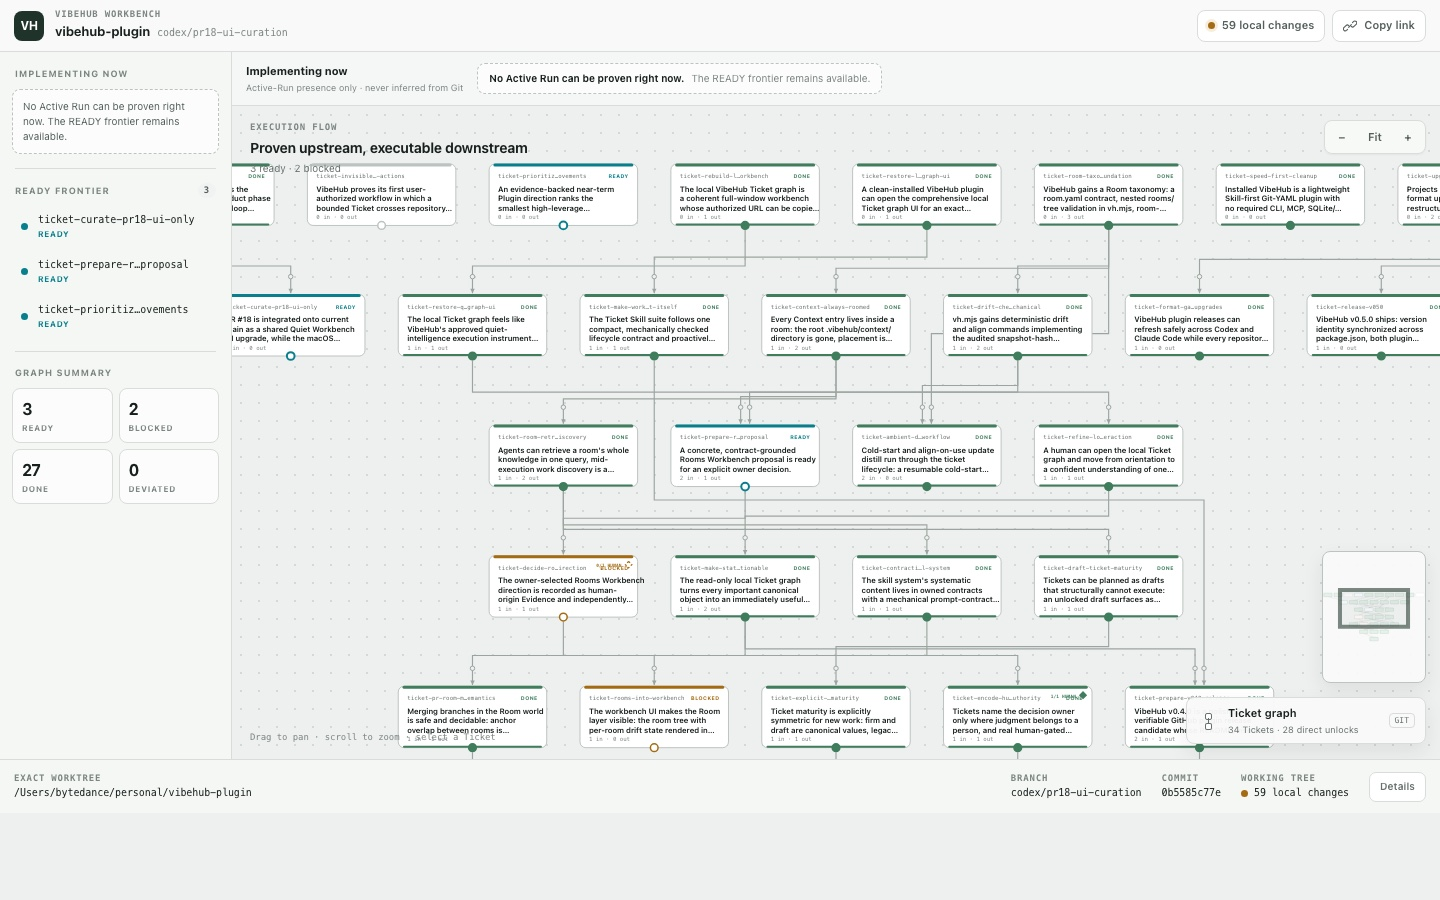
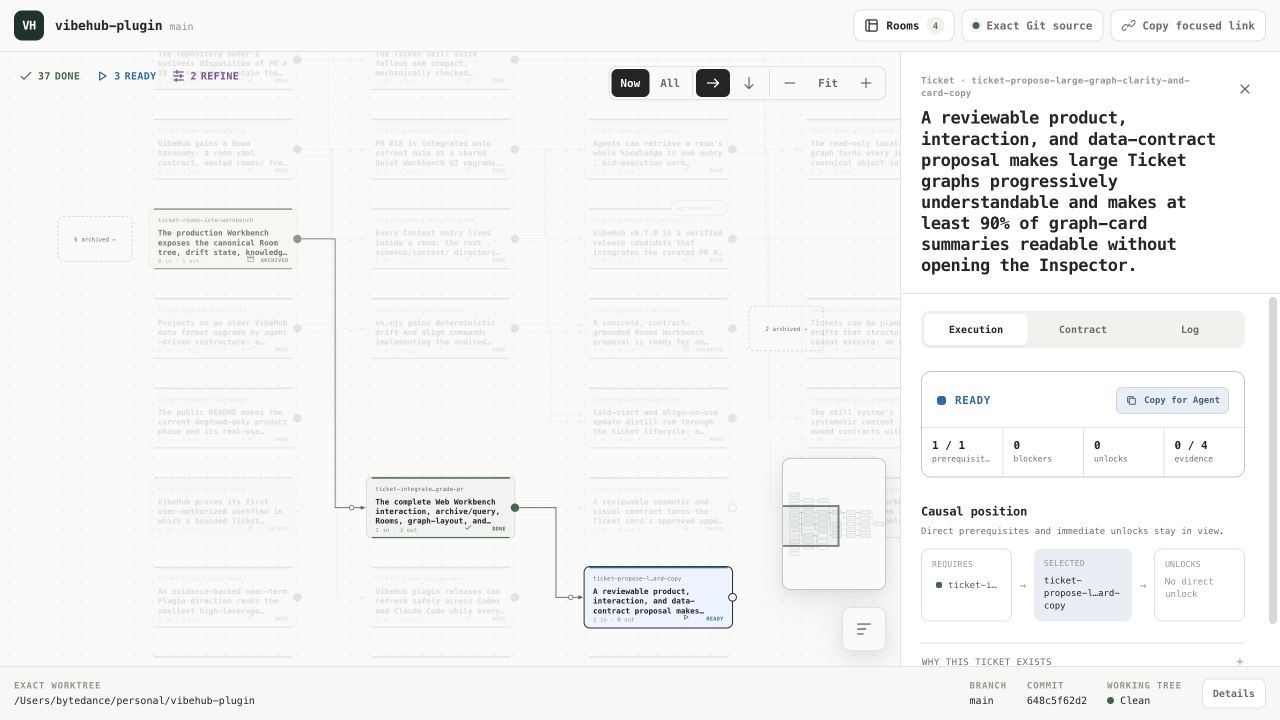
docs(readme): present the v0.8 Workbench

diff --git a/README.md b/README.md
@@ -12,16 +12,17 @@
 
 <p align="center"><em>Memory tools preserve the conversation; VibeHub preserves the development cycle.</em></p>
 
-![VibeHub local Ticket graph](docs/assets/local-graph/quiet-workbench-desktop.jpg)
+![VibeHub v0.8 canvas-first Ticket Workbench](docs/assets/local-graph/quiet-workbench-desktop.jpg)
 
-That one line is the entire user entry. Describe the work, say it, and the
-Agent handles repository setup when needed, plans the smallest honest Ticket,
-executes it, records Evidence, asks for human attention only at a real boundary,
-and hands completion to an independent Outcome.
+Describe the work and say that one line. VibeHub plans the smallest honest
+Git-native Tickets and keeps current causal work on the canvas. Select a Ticket
+for Execution, Contract, and Log detail; open Rooms or history only when useful;
+and follow clear signals when a decision genuinely needs you.
 
-Tickets, durable Context, Evidence, and Outcomes remain ordinary Git files.
-The graph appears when it helps you orient, decide, or audit; routine execution
-stays out of the way.
+As work proceeds, the Agent records acceptance-linked Evidence and hands
+completion to an independent Outcome. Tickets, durable Context, Evidence, and
+Outcomes remain ordinary Git files, so the next Agent can resume from exact
+repository truth while routine execution stays out of the way.
 
 ## Installation
 
@@ -29,11 +30,10 @@ stays out of the way.
 
 ```bash
 codex plugin marketplace add VW-ai/vibehub-plugin
-codex
+codex plugin add vibehub@vibehub
 ```
 
-Then open `/plugins`, install **VibeHub** from the `vibehub` marketplace, and
-start a new session.
+Then start a new task and use the single entry above.
 
 **Claude Code**
 
@@ -43,17 +43,16 @@ start a new session.
 /reload-plugins
 ```
 
-Describe the work in a new session, then use the single entry above.
-
 ## Upgrades
 
 The host updates the plugin bundle; VibeHub never updates itself in the
 background and never rewrites checked-in project data during installation.
-Claude Code can refresh auto-update-enabled marketplaces and apply the new
-bundle with `/reload-plugins`. In Codex, refresh the Git marketplace with
-`codex plugin marketplace upgrade vibehub`, refresh or reinstall the plugin,
-then start a new session. If `.vibehub/version.yaml` needs migration, the new
-session previews and applies that change separately through the migrate Skill.
+In Codex, run `codex plugin marketplace upgrade vibehub` followed by
+`codex plugin add vibehub@vibehub`, then start a new task. In Claude Code, run
+`claude plugin update vibehub@vibehub --scope user`, then restart Claude Code
+(or use `/reload-plugins` after a marketplace refresh). If project data needs
+migration, the new session previews that separate Git change through the
+migrate Skill; installing a plugin never rewrites `.vibehub/`.
 Read the [product concept](docs/CONCEPT.md), [installation and coexistence](docs/INSTALL.md),
 [local graph design](docs/LOCAL_GRAPH_DESIGN.md), or [release procedure](docs/RELEASE.md).
 Apache-2.0
